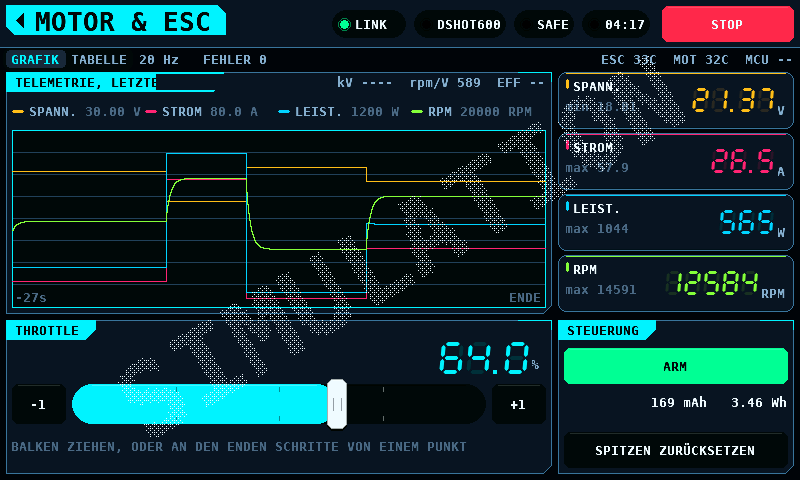
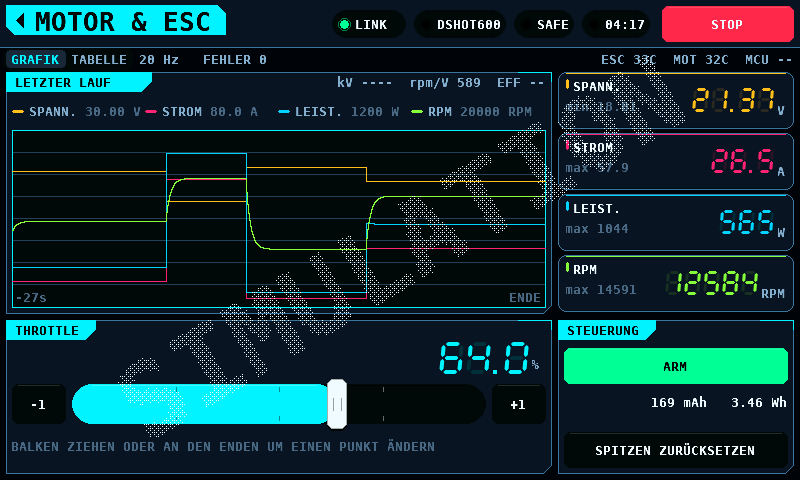
Fail the fit check on a string a later fill paints over
render_ui.py --fit reports a string whose characters a fill drawn after it covers, unless the same string is drawn again in place; OUTPUTS with its protocol list open is exempt. It caught the MOTOR tab, where TELEMETRIE, LETZTER LAUF ran under the kV line. The held tag is LETZTER LAUF, the holding current reads HALTEN, and the throttle hint has a verb.

Changed region(s): [[0.1562, 0.9062, 0.5938, 0.9375], [0.0, 0.125, 0.2812, 0.2188]]

diff --git a/tools/render_ui.py b/tools/render_ui.py
@@ -16,7 +16,8 @@ Every screen is rendered in English into docs/img/ and in German into
 docs/img/de/.  --fit builds the renderer with GFX_TEXT_TRACE, draws every
 view in both languages and fails when a German string is wider than its box,
 is cut at the edge of the area it is drawn in, runs past the shape it is
-printed on, or overlaps another string.
+printed on, overlaps another string, or is painted over by a fill drawn after
+it.
 """
 
 from __future__ import annotations
@@ -216,6 +217,10 @@ SLACK_Y = 2
 # something a label sits inside.
 MIN_SHAPE = 8
 
+# Views that open a drop-down over the screen: the list covers the labels
+# beside it by design, so a fill drawn over a string is not a finding there.
+OVERLAY_VIEWS = {"outputs-protocol"}
+
 
 class Rect:
     def __init__(self, x, y, w, h):
@@ -265,9 +270,51 @@ def read_trace(path: pathlib.Path):
     return items, used
 
 
-def fit_problems(items):
+def ink(t, s):
+    """The part of a string's box its characters cover: the box less the
+    cells of its leading and trailing spaces, which a padded label carries."""
+    n = len(s)
+    if n == 0 or not s.strip():
+        return None
+    cell = t.w / n
+    lead = n - len(s.lstrip(" "))
+    trail = n - len(s.rstrip(" "))
+    x0 = t.x + round(cell * lead)
+    x1 = t.r - round(cell * trail)
+    return Rect(x0, t.y, x1 - x0, t.h)
+
+
+def painted_over(items, i, vis, s):
+    """The first fill drawn after string i that covers part of its ink, as
+    a Rect, unless the same string is drawn again in the same place after
+    that fill."""
+    t = items[i][1]
+    k = ink(t, s)
+    if k is None:
+        return None
+    k = k.inter(vis)
+    if k is None or k.h <= 2 * SLACK_Y:
+        return None
+    core = Rect(k.x, k.y + SLACK_Y, k.w, k.h - 2 * SLACK_Y)
+    for j in range(i + 1, len(items)):
+        b = items[j]
+        if b[0] != "B":
+            continue
+        hit = core.inter(b[1])
+        if hit is None or b[2].inter(hit) is None:
+            continue
+        redrawn = any(items[m][0] == "T" and items[m][4] == s
+                      and items[m][1].x == t.x and items[m][1].y == t.y
+                      for m in range(j + 1, len(items)))
+        if not redrawn:
+            return b[2].inter(hit)
+    return None
+
+
+def fit_problems(items, overlay=False):
     """What overflows, as (string, problem) pairs.  Width only: a language
-    changes how long a string is, not how tall."""
+    changes how long a string is, not how tall.  With @p overlay, a string
+    a later fill covers is not a finding."""
     problems = []
     drawn = []          # (index, visible rect, string)
     for i, it in enumerate(items):
@@ -296,6 +343,10 @@ def fit_problems(items):
         vis = t.inter(clip)
         if vis is None:
             continue
+        over = None if overlay else painted_over(items, i, vis, s)
+        if over is not None:
+            problems.append((s, "is painted over from x=%d to %d by a fill "
+                             "drawn after it" % (over.x, over.r)))
         core = Rect(vis.x, vis.y + SLACK_Y, vis.w, max(vis.h - 2 * SLACK_Y, 0))
         for k, other, os_ in drawn:
             hit = core.inter(other)
@@ -339,7 +390,7 @@ def fit(views, langs) -> int:
                 render_one(exe, tmp, name, screen, theme, lang, trace)
                 items, used = read_trace(trace)
                 seen[lang] |= used
-                for s, why in fit_problems(items):
+                for s, why in fit_problems(items, name in OVERLAY_VIEWS):
                     if lang == "en":
                         english.setdefault(name, set()).add((s, why))
                     shared = (s, why) in english.get(name, set())

diff --git a/shared/ui/ui_text_de.c b/shared/ui/ui_text_de.c
@@ -298,11 +298,11 @@ static const char *const k_text[TX_COUNT] = {
     [TX_MO_ROW_RPM]             = "RPM",
     [TX_MO_TABLE_MAX]           = "max",
     [TX_MO_TAG_LIVE]            = "TELEMETRIE LIVE",
-    [TX_MO_TAG_HELD]            = "TELEMETRIE, LETZTER LAUF",
+    [TX_MO_TAG_HELD]            = "LETZTER LAUF",
     [TX_MO_TAG_IDLE]            = "TELEMETRIE RUHT",
     [TX_MO_CONTROL]             = "STEUERUNG",
     [TX_MO_NO_RUN]              = "kein Lauf aufgezeichnet",
-    [TX_MO_HINT]                = "BALKEN ZIEHEN, ODER AN DEN ENDEN SCHRITTE VON EINEM PUNKT",
+    [TX_MO_HINT]                = "BALKEN ZIEHEN ODER AN DEN ENDEN UM EINEN PUNKT ÄNDERN",
     [TX_MO_RESET_PEAKS]         = "SPITZEN ZURÜCKSETZEN",
 
     /* ---------------------------------------------------------- SUPPLY */
@@ -693,7 +693,7 @@ static const char *const k_text[TX_COUNT] = {
     [TX_SV_STEP_OF]             = "%s %u VON %u  %.2f V",
     [TX_SV_PHASE_OF]            = "%s %u VON %u",
     [TX_SV_TEST_VERDICT]        = "TEST %s",
-    [TX_SV_TRAVEL_HOLD]         = "STELLZEIT %lu ms  HALT %.2f A",
+    [TX_SV_TRAVEL_HOLD]         = "STELLZEIT %lu ms  HALTEN %.2f A",
     [TX_SV_STOP_TEST]           = "TEST BEENDEN",
     [TX_SV_START_TEST]          = "TEST STARTEN",
     [TX_SV_COMMANDED]           = "SOLL",
